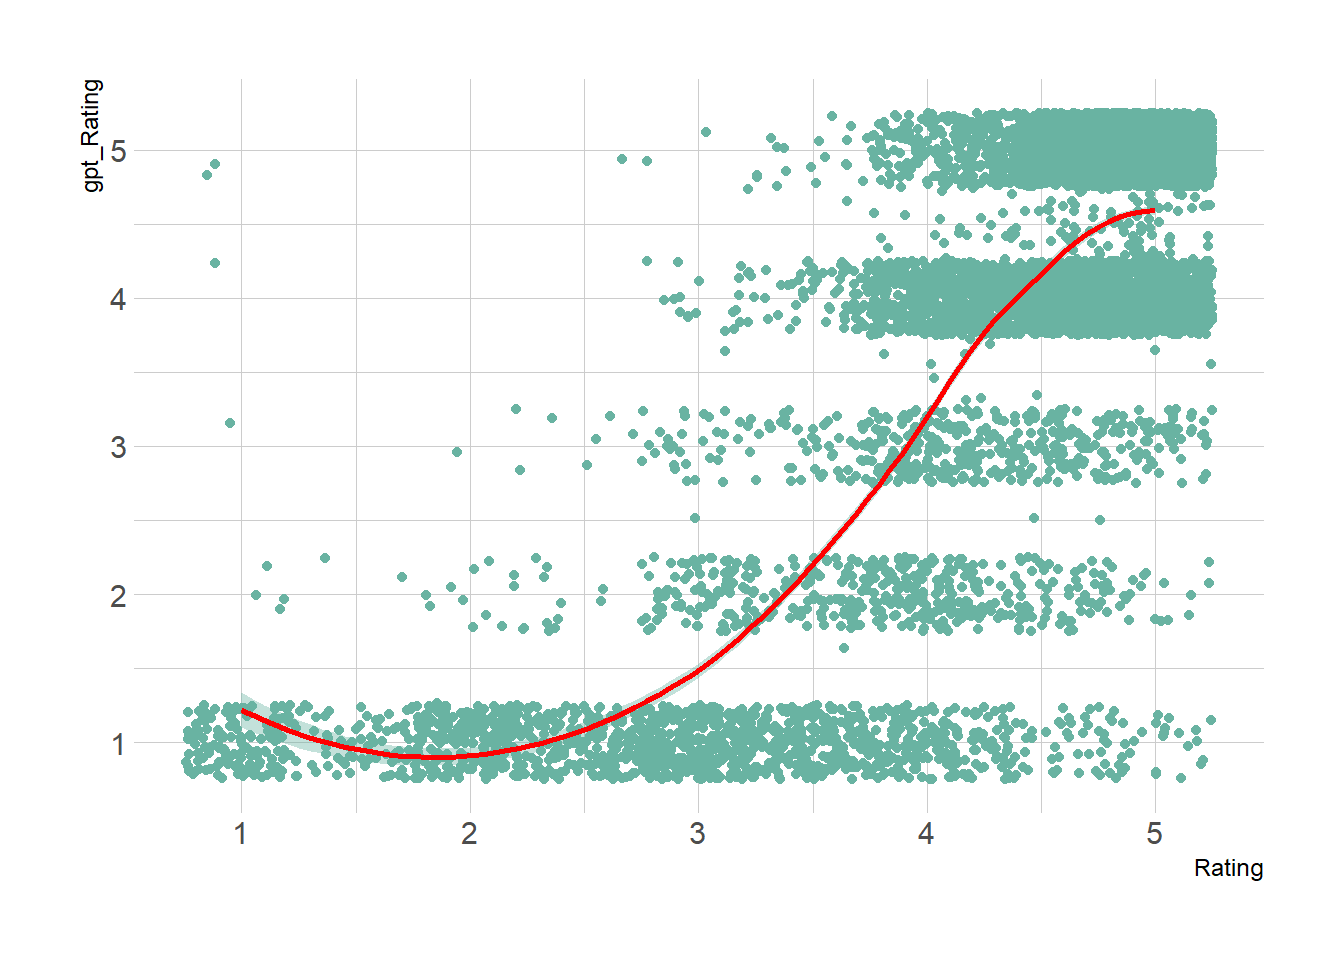
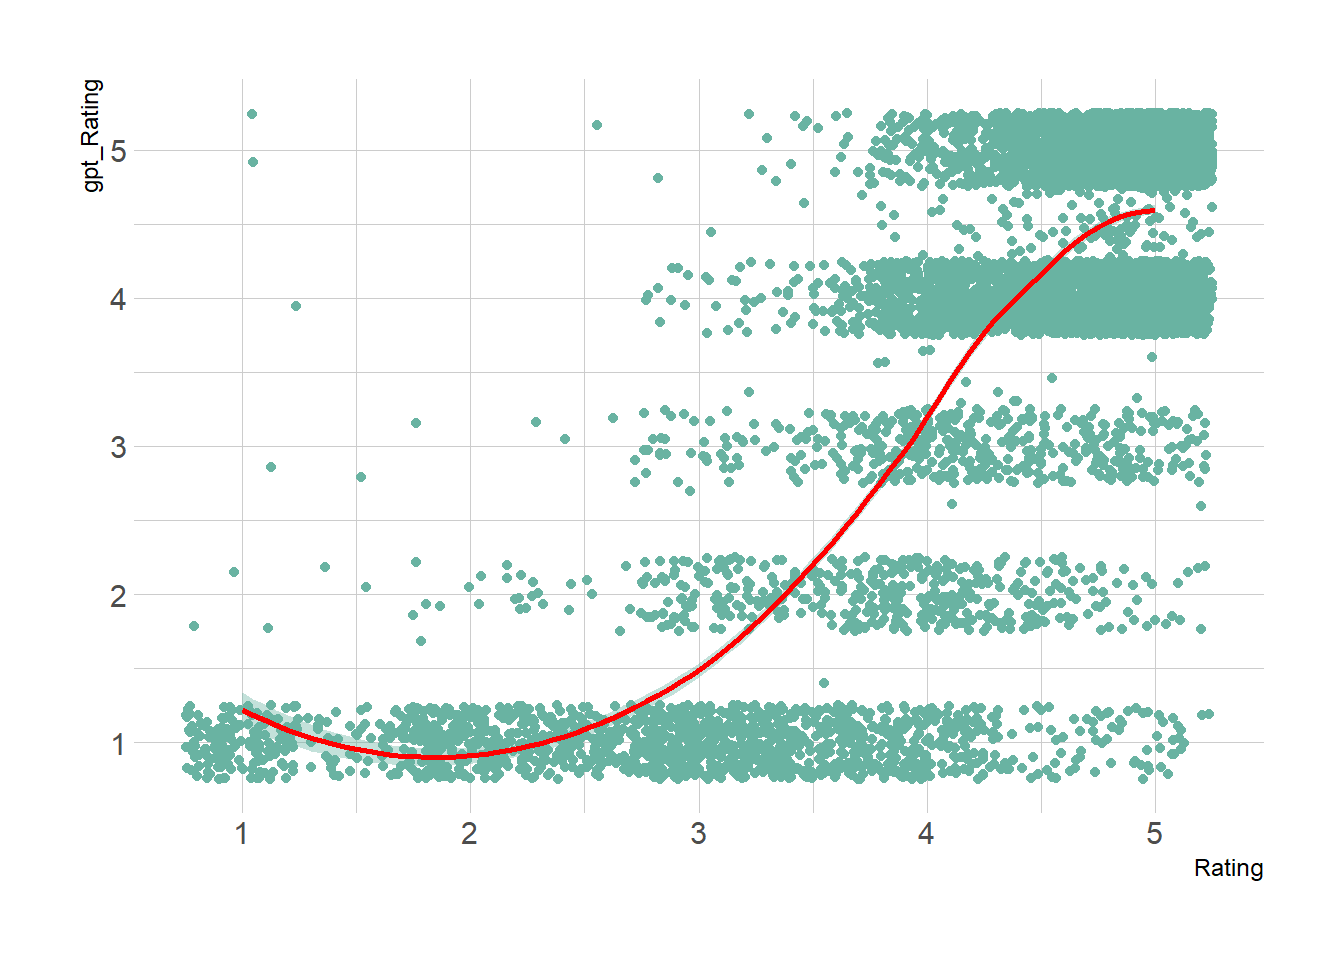
updates

diff --git a/docs/llm-assisted-text-analysis.html b/docs/llm-assisted-text-analysis.html
@@ -151,6 +151,10 @@ window.Quarto = {
           <div class="collapse navbar-collapse" id="navbarCollapse">
             <ul class="navbar-nav navbar-nav-scroll me-auto">
   <li class="nav-item">
+    <a class="nav-link" href="./index.html"> 
+<span class="menu-text">Home</span></a>
+  </li>  
+  <li class="nav-item">
     <a class="nav-link active" href="./llm-assisted-text-analysis.html" aria-current="page"> 
 <span class="menu-text">LLM-Assisted Analysis of Open-Ended Text</span></a>
   </li>  
@@ -308,29 +312,29 @@ $ country       &lt;chr&gt; "American", "American", "American", "American", "Ame
 </thead>
 <tbody>
 <tr class="odd">
-<td style="text-align: left;">toyota</td>
-<td style="text-align: left;">great car</td>
-<td style="text-align: left;">The performance of this car is great. Driving mountain roads in California it really feels solid. There are no unpleasant surprises in the handling that I've encountered.</td>
+<td style="text-align: left;">infiniti</td>
+<td style="text-align: left;">Best SUV Out There</td>
+<td style="text-align: left;">The title speaks for itself. I bought the QX56 for my lead-footed wife and she loves it so much she may just keep it (unlike the other 3 SUV's in the last 5 years). She has not one single complaint. Maybe I'll surprise her and buy her a new one if there is a re- design.</td>
 </tr>
 <tr class="even">
-<td style="text-align: left;">lincoln</td>
-<td style="text-align: left;">What's not to like!</td>
-<td style="text-align: left;">We bought our 1999 Continental about 2 years ago for $7,500. Low mileage on the car when we bought it. We've had no trouble with the car at all. Good power, nice-looking, decent gas mileage, large trunk, comfortable for 5, just the right size.</td>
+<td style="text-align: left;">dodge</td>
+<td style="text-align: left;">You can drive of look at perfection</td>
+<td style="text-align: left;">This is as close as you will get to perfection from an auto manufacturer. This is a 3500 Turbo 5.7L Diesel working machine. To drive this beast you would never know your driving such a truck or you can soon forget your are hauling anything. This, I would say is the only bad quality.</td>
 </tr>
 <tr class="odd">
-<td style="text-align: left;">dodge</td>
-<td style="text-align: left;">Drives Great</td>
-<td style="text-align: left;">Bought this car about six month ago. Replaced brakes, very easy due to four disc brakes instead of rear drums. Having to change tires. It is super clean under the hood. Bought at 112K, have 122K on it now. Haven't changed oil in 4K and it is still super clean</td>
+<td style="text-align: left;">lexus</td>
+<td style="text-align: left;">awesome from day one!</td>
+<td style="text-align: left;">I traded my soon to be out of warranty 07 CLS63 for my 2012 F sport.45-49 mpg mostly in the sport mode mixed city/hiway driving.I debadged my hottie including the blue L,,,don't want to be mistaken for a Greeny....no one knows what it is, lots of thumbs up,you would get that responce in a Prius!!!</td>
 </tr>
 <tr class="even">
-<td style="text-align: left;">volkswagen</td>
-<td style="text-align: left;">Excellent Car For Around $25K -</td>
-<td style="text-align: left;">We considered the Prius, the Fusion and the Audi A3.. This car was the best choice by far. Very well made, great low end performance, great mileage, plus driving the car makes me smile. Much better value then the Audi A3 and the performance leaves the Toyota and Ford in the dust.</td>
+<td style="text-align: left;">mazda</td>
+<td style="text-align: left;">Best car ever!</td>
+<td style="text-align: left;">I bought this car brand new 8 years ago and I can honestly say it has been the best car I've ever owned! Thus far the only things we've had to change on it have been the brakes and of course the tires. Anyway, great first time car for anyone! I will be trading up soon for a small SUV.</td>
 </tr>
 <tr class="odd">
 <td style="text-align: left;">ford</td>
-<td style="text-align: left;">So far... so good!</td>
-<td style="text-align: left;">Went from an Acura Sedan to the Escape because I really wanted a 4 wheel drive. Definitely fun to drive and I love sitting high up now! Husband complains about the hard leather but I think it's pretty comfy. I finally am looking forward to a good snow storm!</td>
+<td style="text-align: left;">Great Truck</td>
+<td style="text-align: left;">Have had the vehicle for seven months and have 15,000 miles to date. Fantastic comfort, incredible towing, great capacity . . . the perfect truck for any situation.</td>
 </tr>
 </tbody>
 </table>
@@ -356,12 +360,11 @@ Note: for first time, need to add your open_api_ai key as an environmental varia
 <span id="cb4-8"><a href="#cb4-8" aria-hidden="true" tabindex="-1"></a><span class="co"># confirm chat is connected to API</span></span>
 <span id="cb4-9"><a href="#cb4-9" aria-hidden="true" tabindex="-1"></a>chat<span class="sc">$</span><span class="fu">chat</span>(<span class="st">"Is R a functional programming language?"</span>)</span></code><button title="Copy to Clipboard" class="code-copy-button"><i class="bi"></i></button></pre></div>
 <div class="cell-output cell-output-stdout">
-<pre><code>Yes, R supports functional programming features. While it's primarily known as 
-a statistical programming language, it allows functions to be first-class 
-objects, enabling functional programming paradigms such as higher-order 
-functions, anonymous functions, and function composition. However, R is 
-multiparadigm, so you can also use imperative and object-oriented programming 
-styles.</code></pre>
+<pre><code>Yes, R supports functional programming features, such as first-class functions,
+higher-order functions, and the ability to use functions as arguments or return
+values. However, it's primarily a language for statistical computing and data 
+analysis, so it incorporates both procedural and object-oriented programming 
+paradigms as well.</code></pre>
 </div>
 </div>
 <p>Define the prompts that will be used to code the data:</p>
@@ -391,7 +394,7 @@ styles.</code></pre>
 <span id="cb6-23"><a href="#cb6-23" aria-hidden="true" tabindex="-1"></a></span>
 <span id="cb6-24"><a href="#cb6-24" aria-hidden="true" tabindex="-1"></a>text</span></code><button title="Copy to Clipboard" class="code-copy-button"><i class="bi"></i></button></pre></div>
 <div class="cell-output cell-output-stdout">
-<pre><code>[1] "Kia has hit the sweet spot for buyers like us with the Kia Nora EX hybrid plug-in.   After our 10 year old Prius died, we began looking for the next step up from a hybrid - all electric or plug-in that would allow my wife to drive 150 miles round trip  dailyto work without having to worry about recharging.  The Kia Niro does that easily combining both electric only of about 27-30 miles before the hybrid has to kick in.  But there's more.  The Kia Niro has a crossover/small SUV look that is more appealing than a sedan/hatchback look. And more -The EX interior is stylish, roomy, with more than enough safety and electronic amenities. And more - great warranties including 5 year/60K  comprehensive and  10 year on the battery.  And - what made it all pencil out are the numerous rebates and/or credits from state of CA, the feds, PG&amp;E and even the local Sonoma Clean Power - all in all reducing the car price by $10,000 and throwing in a free superfast home charging station and a free carpool sticker."</code></pre>
+<pre><code>[1] "This car is a lemon.  Avoid it at all costs.\r At 40k the transmission leaked.  50k miles, head gasket failed.  54k the engine leaked oil again.  57k the valve cover gasket leaked.  \r This car is poorly assembled."</code></pre>
 </div>
 <div class="sourceCode cell-code" id="cb8"><pre class="sourceCode r code-with-copy"><code class="sourceCode r"><span id="cb8-1"><a href="#cb8-1" aria-hidden="true" tabindex="-1"></a>chat <span class="ot">&lt;-</span> <span class="fu">chat_openai</span>()</span></code><button title="Copy to Clipboard" class="code-copy-button"><i class="bi"></i></button></pre></div>
 <div class="cell-output cell-output-stderr">
@@ -401,14 +404,14 @@ styles.</code></pre>
 <span id="cb10-2"><a href="#cb10-2" aria-hidden="true" tabindex="-1"></a><span class="fu">str</span>(coded.review)</span></code><button title="Copy to Clipboard" class="code-copy-button"><i class="bi"></i></button></pre></div>
 <div class="cell-output cell-output-stdout">
 <pre><code>List of 9
- $ sentiment      : chr "positive"
- $ gpt_Rating     : int 5
- $ reliability    : int 0
- $ utility        : int 1
+ $ sentiment      : chr "negative"
+ $ gpt_Rating     : int 1
+ $ reliability    : int 1
+ $ utility        : int 0
  $ driving        : int 0
  $ comfort        : int 0
- $ interior       : int 1
- $ fuel_efficiency: int 1
+ $ interior       : int 0
+ $ fuel_efficiency: int 0
  $ technology     : int 0</code></pre>
 </div>
 </div>

diff --git a/docs/index.html b/docs/index.html
@@ -84,6 +84,10 @@ ul.task-list li input[type="checkbox"] {
           <div class="collapse navbar-collapse" id="navbarCollapse">
             <ul class="navbar-nav navbar-nav-scroll me-auto">
   <li class="nav-item">
+    <a class="nav-link active" href="./index.html" aria-current="page"> 
+<span class="menu-text">Home</span></a>
+  </li>  
+  <li class="nav-item">
     <a class="nav-link" href="./llm-assisted-text-analysis.html"> 
 <span class="menu-text">LLM-Assisted Analysis of Open-Ended Text</span></a>
   </li>  

diff --git a/docs/about.html b/docs/about.html
@@ -84,6 +84,10 @@ ul.task-list li input[type="checkbox"] {
           <div class="collapse navbar-collapse" id="navbarCollapse">
             <ul class="navbar-nav navbar-nav-scroll me-auto">
   <li class="nav-item">
+    <a class="nav-link" href="./index.html"> 
+<span class="menu-text">Home</span></a>
+  </li>  
+  <li class="nav-item">
     <a class="nav-link" href="./llm-assisted-text-analysis.html"> 
 <span class="menu-text">LLM-Assisted Analysis of Open-Ended Text</span></a>
   </li>  
